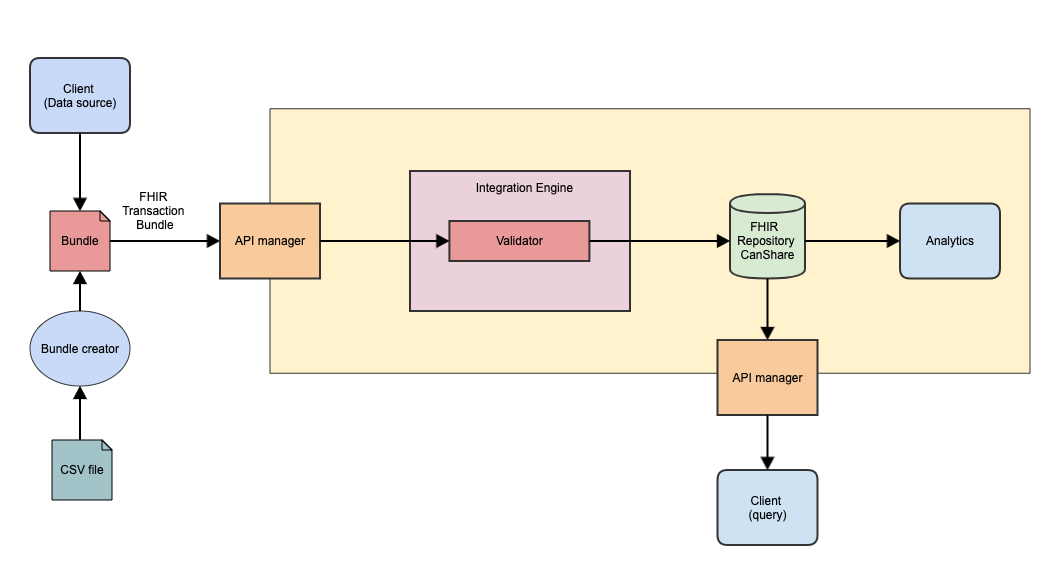
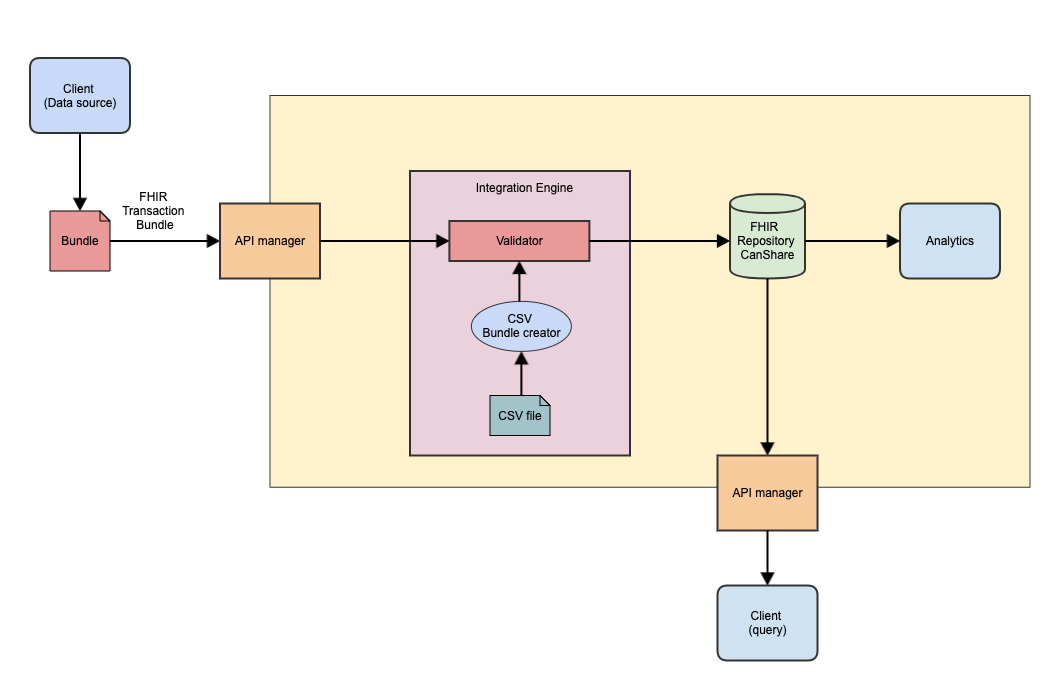
still working on docs

diff --git a/input/pagecontent/api-input.md b/input/pagecontent/api-input.md
@@ -8,13 +8,15 @@ Given that the system needs to perform updates of resources (rather than simply 
 
 One way that this can be done is to use the [resource id](http://hl7.org/fhir/element-definitions.html#Element.id) - an element that all resources possess. However, assigning the id can become complex when multiple systems need to interact with the same resource and the risk of inadvertently altering the wrong resources needs to be carefully considered. 
 
-An alternative approach is to use the [identifier](http://hl7.org/fhir/datatypes.html#Identifier) element - which most resources (including the ones needed by this Guide) support.
+An alternative approach is to use the identifier element - which most resources (including the ones needed by this Guide) support. In all cases where a resource type has an identifier element there can be multiple ones.
 
 An identifier is an alternate way of identifying a resource. Unlike the resource id, the value of the identifier does not change if the resource is moved between servers (it is considered a business identifier rather than a structural/logical one which is the id).
 
-The identifier is a complex datatype and has 2 child elements - system and value.
+Note that the identifier element has a datatype of [identifier](http://hl7.org/fhir/datatypes.html#Identifier) as well 
 
-The system element describes the domain within which the value is unique. Existing examples are medical record numbers, passport numbers and driving license.
+The identifier datatype is a complex datatype and has number of child elements, of which 2 are the most useful - system and value.
+
+The *identifier.system* element describes the domain within which the *identifier.value* is unique. Existing examples are medical record numbers, passport numbers and driving license.
 
 Each potential supplier of information will be assigned a system value (which is a url). Alternatively, if the supplier has one which is not being used by any other supplier then that could be used.
 
@@ -29,8 +31,9 @@ The Bundle is a FHIR resource that contains resources within Entry elements. Eac
 To support the need to update based on the resource identifier, [conditional updates](http://hl7.org/fhir/http.html#cond-update) are required for all resources in the bundle. 
 
 In a conditional update (sometimes called an 'upsert'), the entry contains a number of specific elements:
+* the entry.fullUrl must be populated. In this guide it will be the string "urn:uuid:" followed by the resource.id (as all ids are UUIDs). 
 * the entry.resource element contains the actual resource. It may or may not have an id, but must have an identifier.
-* the entry.request element has 2 children:
+* the entry.request element has 2 children that need to be populated:
     * entry.request.method - this is set to 'PUT'
     * entry.request.url - this is set to a query that would identify the resource (if it exists on the target server). Commonly (and in this guide) it is based on the identifier. 
         * If there is no resource matching this query, then one is created on the server. 
@@ -40,13 +43,15 @@ In a conditional update (sometimes called an 'upsert'), the entry contains a num
 Here's an example of a CarePlan with an identifier with a system value of http://example.org and a value of abc1234 being created or updated. :
 
 ```
+  entry: [
     {
-	Resource : {....},
-	Request: {
-		method:PUT,
-		url: CarePlan?identifier=http://example.org|abc1234
-		}
+      resource : {....},
+      request: {
+        method:PUT,
+        url: CarePlan?identifier=http://example.org|abc1234
+      }
     }
+  ]
 
 ```
 
@@ -61,7 +66,7 @@ The [uuid](http://hl7.org/fhir/datatypes.html#uuid)(Universally Unique ID) is us
 
 The server will locate an existing resource based on the identifier or create a new one if none exist as described above. The server will then update the references between resources to use that id internally,
 
-Here's an example of resources and resource references in a sample bundle. Note the presence of the 'fullUrl' element in the bundle which must be present.
+Here's an example of resources and resource references in a sample bundle. Note the presence of the 'fullUrl' element in the bundle which must be present (it matches the id).
 
 ```
 {
@@ -124,13 +129,15 @@ Even if the resource already exists in the server, it should still be present in
 
 
 ### Process to create the bundle
-There are a number of strategies for the client to create the bundle, depending on their internal capabilities. At the least, it must maintain unique identifiers for each resource within its database. These may or may not be in the FHIR format as long as they are unique within the clients system, at least within the resource type. 
+There are a number of strategies for the client to create the bundle, depending on their internal capabilities. At the least, it must maintain unique identifiers for each resource within its database. These may or may not be in the FHIR format as long as they are unique within the clients system, at least within the resource type (so the combination of identifier.system & identifier.value is unique). 
 
 Data can be sent either as new/updates only (incremental) or all data for a patient. The approach taken will depend on whether the client can track internally resources that have been submitted (incremental update) or whether it must send a complete dump of all the data for a patient if there are any changes to that patients data. 
 
 The incremental approach will result in smaller bundles (as only changed resources and resources they reference need to be sent) and will allow allow the server to track changes to resources over time (eg a changing CarePlan status). However, this does add to the complexity of the solution. 
 
-This section will assume that when a patient changes, all data needs to be sent (or re-sent) to the server. It is suggested that there should be a single bundle per patient as this will keep the bundle size as small as possible. It also means that if there is a validation error, then only that patient will need to be re-sent.
+#### Complete patient refresh
+
+If the sender cannot track which resources have been sent to the system, then when any patient data changes, all data needs to be sent (or re-sent) to the server. It is suggested that there should be a single bundle per patient as this will keep the bundle size as small as possible. It also means that if there is a validation error, then only that patient will need to be re-sent.
 
 Here's an example high level flow.
 
@@ -154,21 +161,18 @@ For each patient that has had an update (new or changed data) since the last tim
     * for each medication that has been administered or prescribed to a patient as part of the cycle of treatment:
         * Create a MedicationAdministration or MedicationRequest resource, with a 'supportingInformation' reference to the cycle carePlan
 
+#### Incremental updates
+In this scenario, the client is able to track which resources have (successfully) been sent to the system and can create bundles that only contain updated or new resources.
 
-#### Reminders and notes:
-* all resources have an identifier and UUID as the ID.
-* all references use the UUID
-* all resources are represented as conditional updates in the bundle.
-* all resources will have a reference to the patient
-* as resources are created, they can be added to the bundle in an entry with the conditional update url set
+The flow is pretty much the same as for the complete patient refresh except that only new or updated resources are included in the bundle. (plus any other resources which they reference - like Patient) 
+
+#### Things to remember
+* All resources have an identifier and UUID as the ID.
+* All references use the UUID
+* All resources are represented as conditional updates in the bundle.
+* All resources will have a reference to the patient
+* Any resources that are the target of a reference much be included in the bundle, even if they have already been sent to the system and haven't changed since then
+* As resources are created, they can be added to the bundle in an entry with the conditional update url set
 * Use the 'validate' endpoint supplied by the Reference Implementation during the design phase.
-
-
-
->>> todo - add mosaic updater to architecture 
-
-Assumptions
-* The client 
-
 
 

diff --git a/input/pagecontent/reference-implementation.md b/input/pagecontent/reference-implementation.md
@@ -1,7 +1,7 @@
 
 To support the development of the Guide, a Reference Implementation (RI) has been created that can store resources in the defined format in a standard FHIR server, and then render them in an 'example' user Interface through the [query API](api-query.html).
 
-Populated with real (but de-personalized) data, it shows the resources - and the references between those resources - in a graphical manner, to assist with indersatnding the details of the guide.
+Populated with real (but de-personalized) data, it shows the resources - and the references between those resources - in a graphical manner, to assist with understanding the details of the guide.
 
 The RI exposes both a User Interface and API (validation and Submission).
 
@@ -15,32 +15,26 @@ As there is only a small number of patients in the application, they are display
 Patient selection by identifier will be added.
 
 #### Resource graph
-
 The graph tab shows the resources from the selected patient displayed as a graph with boxes representing the resource instances and lines between them representing the references. Clicking on any of the resource instances will display the json view of the resource in the right hand pane.
 
 <img style="width:800px; float:none" src="angraph.png"/>
 
 #### Timeline view
+This presents the medications along a timeline of administration date. Selecting an administration (the square box in the timeline) will display the resource to the right.
 
+<img style="width:800px; float:none" src="timeline.png"/>
 
 #### Cycles view
 Displays the cycles of treatment in a tabluar format. Both CarePlan and MedicationAdministration / MedicationRequest can be displayed.
 
+<img style="width:800px; float:none" src="cycles.png"/>
 
- as described
-
-view RI - purpose, links
-
-testing input app
-
-
-Medciations timeline
 
 
 ### Validation endpoint
 To assist with development, the RI exposes a validation endpoint that accepts a bundle, and performs validation without saving the data in the server.
 
 ### Submission endpoint
-An endpoint that receives a bundle and saves the data in the server (assuming that is passes validation). Once successfully saved, the patient can be retrieved in the User Interface, and the resources and references examined.
+An endpoint that receives a bundle and saves the data in the server (assuming that it passes validation). Once successfully saved, the patient can be retrieved in the User Interface, and the resources and references examined.
 
 

diff --git a/input/pagecontent/architecture.md b/input/pagecontent/architecture.md
@@ -2,6 +2,8 @@
 
 The systems is designed as a data aggregator - accepting data from a small number of systems (it is highly specialised) and saving it into a FHIR server as patient specific information.
 
+This guide does not include security in detail.
+
 The overall architecture of the proposed solution is as follows:
 
 <img style="width:800px; float:none" src="architecture.png"/>
@@ -43,9 +45,16 @@ A key premise of the architecture is that validation is applied at data acquisit
 #### Client (query)
 Represents an external client querying the data - such as an MDM meeting. Security is applied by the API manager.
 
-#### Bundle creator
-This is a component that create bundles from CSV files and submit them via the REST interface to the system. This is to support a legacy system that is capable of extracting data to csv, but not too FHIR. Currently there is a javascript application developed as part of the Reference Implementation that can do this that can serve as an example for development. This may not be required, depending on business decisions.
+#### CSV bundle creator
+This is a component that create bundles from CSV files and submit them via the REST interface to the system. This is to support a legacy system that is capable of extracting data to csv, but not to FHIR. 
 
+The component is depicted as being part of the Integration Engine (and so inside the system and doesn't necessarily need to go through the API manager), though it could be elsewhere.
+
+There is a javascript component developed as part of the Reference Implementation that can do this action. It could serve as an example for development. 
+
+The bundle creator may not be required, depending on business decisions.
+
+<!--
 
 ---
 
@@ -64,3 +73,4 @@ overall architecture
     aggregator
     store as fhir resources
     validation - details on a separate page - or in the API
+-->

diff --git a/input/pagecontent/index.md b/input/pagecontent/index.md
@@ -6,7 +6,7 @@ This Guide describes how this data is represented as FHIR resources, and collect
 
 As such it describes an actual system, rather than a definition of how interoperability works in a particular domain.
 
-The intention is that it will inform the choice of architectural components needed for a production grade deployment.
+The intention is that it will inform the choice of architectural components needed for a production grade deployment, as well as the requirements for vendors supplying data to the system.
 
 There are a number of sections to the Guide, represented as tabs at the top of the guide.
 

diff --git a/input/pagecontent/api-query.md b/input/pagecontent/api-query.md
@@ -1,4 +1,11 @@
 
+The query API allows authorized users to access data through the FHIR REST API.
+
+The query requirements of this guide have not been completely determined at this time.
+
+
+<!--
+The 
 query api
 
 Patient/$everything
@@ -11,3 +18,5 @@ sample queries
 describe _include, _revinclude
 
 regimens for patient
+
+-->
